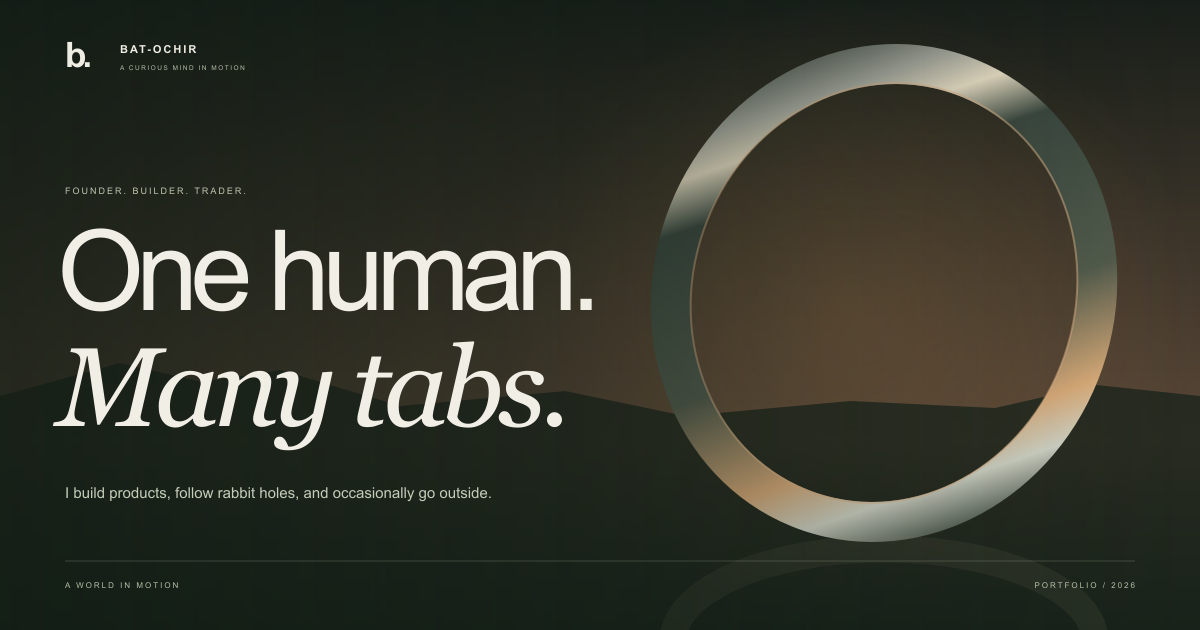
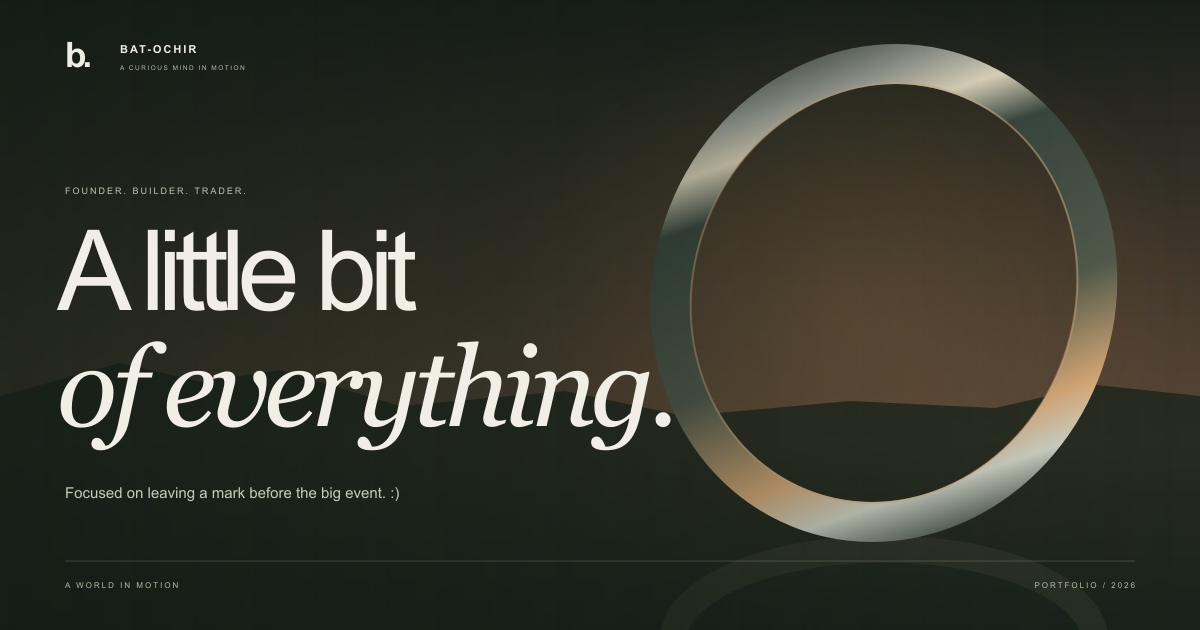
feat: hero change, animatided scroll down, lets keep in touch.

Changed region(s): [[0.0308, 0.5429, 0.555, 0.7238], [0.0308, 0.3619, 0.4933, 0.5127], [0.0617, 0.754, 0.4008, 0.8143]]

diff --git a/index.html b/index.html
@@ -4,20 +4,20 @@
   <meta charset="UTF-8">
   <meta name="viewport" content="width=device-width, initial-scale=1">
   <meta name="theme-color" content="#151713">
-  <meta name="description" content="I'm Bat-Ochir. Founder of RoamRep, software builder, options trader, and a curious mind in motion. Step into my world.">
+  <meta name="description" content="Bat-Ochir. Founder of RoamRep, builder, and options trader. A little bit of everything, focused on leaving a mark.">
   <title>Bat-Ochir — A world in motion</title>
   <link rel="canonical" href="https://bat-portfolio.vercel.app/">
   <meta property="og:type" content="website">
   <meta property="og:site_name" content="Bat-Ochir">
   <meta property="og:title" content="Bat-Ochir — A world in motion">
-  <meta property="og:description" content="Founder. Builder. Trader. Always exploring what comes next.">
+  <meta property="og:description" content="A little bit of everything. Focused on leaving a mark before the big event.">
   <meta property="og:url" content="https://bat-portfolio.vercel.app/">
   <meta property="og:image" content="https://bat-portfolio.vercel.app/assets/share-card.png">
   <meta property="og:image:width" content="1200"><meta property="og:image:height" content="630">
   <meta property="og:image:alt" content="Bat-Ochir. A world in motion. Founder, builder, trader.">
   <meta name="twitter:card" content="summary_large_image">
   <meta name="twitter:title" content="Bat-Ochir — A world in motion">
-  <meta name="twitter:description" content="Founder. Builder. Trader. Always exploring what comes next.">
+  <meta name="twitter:description" content="A little bit of everything. Focused on leaving a mark before the big event.">
   <meta name="twitter:image" content="https://bat-portfolio.vercel.app/assets/share-card.png">
   <link rel="icon" href="assets/favicon.svg" type="image/svg+xml">
   <link rel="preconnect" href="https://fonts.googleapis.com">
@@ -48,12 +48,12 @@
     <section class="hero section" id="home" data-chapter="00" data-name="The entrance" data-world="0">
       <div class="hero-copy">
         <p class="eyebrow hero-enter">BAT-OCHIR · FOUNDER, BUILDER & TRADER</p>
-        <h1 class="hero-title"><span class="hero-line"><span>One human.</span></span><span class="hero-line"><span><em>Many tabs.</em></span></span></h1>
-        <p class="hero-description hero-enter">I build products, follow rabbit holes,<br>and occasionally go outside.</p>
-        <a class="text-link hero-enter" href="#roamrep">Step into my world <span aria-hidden="true">↘</span></a>
+        <h1 class="hero-title hero-title--personal"><span class="hero-line"><span>A little bit</span></span> <span class="hero-line"><span><em>of everything.</em></span></span></h1>
+        <p class="hero-description hero-enter">Focused on leaving a mark<br>before the big event. <span class="hero-smile">:)</span></p>
+        <a class="scroll-down hero-enter" href="#roamrep"><span class="scroll-disc" aria-hidden="true"><span class="scroll-arrows"><span>↓</span><span>↓</span></span></span><span>Scroll down</span></a>
       </div>
       <div class="hero-orbit-label" aria-hidden="true"><span class="orbit-cross">+</span><span>INDEPENDENT MIND.<br>OPEN HORIZONS.</span></div>
-      <div class="hero-bottom"><a href="#roamrep" class="scroll-cue"><span class="scroll-line" aria-hidden="true"></span><span>SCROLL TO EXPLORE</span></a><p>A world in motion.<span>Selected work & ongoing curiosities</span></p><span class="edition">PORTFOLIO / 2026</span></div>
+      <div class="hero-bottom"><p>A world in motion.<span>Selected work & ongoing curiosities</span></p><span class="edition">PORTFOLIO / 2026</span></div>
     </section>
 
     <section class="project section roam-section" id="roamrep" data-chapter="01" data-name="The venture" data-world="0.19" aria-labelledby="roam-title">
@@ -123,7 +123,7 @@
     <section class="about section" id="about" data-chapter="06" data-name="The human" data-world="0.94" aria-labelledby="about-title">
       <div class="about-top reveal"><p class="eyebrow"><span class="chapter-no">06 /</span> THE HUMAN BEHIND THE WORLDS</p><span class="human-spark" aria-hidden="true">✳</span></div>
       <h2 class="about-title reveal" id="about-title">Hi, I’m <span class="unbroken">Bat-Ochir.</span><br>Call me <em>Bat.</em></h2>
-      <div class="about-body"><p class="about-statement reveal">I tend to test the ideas that stick in my head. Sometimes they become products. Sometimes businesses. Sometimes a very good lesson.</p><div class="about-personal reveal"><p>Outside the screen: chess, basketball, volleyball, and hip hop choreography. A competitive streak. Four languages. Always something new to learn.</p><a class="text-link" href="mailto:batcontact.help@gmail.com?subject=R%C3%A9sum%C3%A9%20request" data-open-contact data-contact-reason="resume">The résumé, on request <span aria-hidden="true">↗</span></a></div></div>
+      <div class="about-body"><p class="about-statement reveal">I do stuff. Hopefully I’ll live in Southeast Asia one day.</p><div class="about-personal reveal"><p>Outside the screen: chess, basketball, volleyball, and hip hop choreography. A competitive streak. Four languages. Always something new to learn.</p><a class="text-link" href="mailto:batcontact.help@gmail.com?subject=R%C3%A9sum%C3%A9%20request" data-open-contact data-contact-reason="resume">The résumé, on request <span aria-hidden="true">↗</span></a></div></div>
       <div class="achievements">
         <article class="achievement reveal"><span class="achievement-label">THE FOUNDATION</span><h3>Summa<br><em>cum laude.</em></h3><p>Graduated with highest honors.</p></article>
         <article class="achievement reveal"><span class="achievement-label">THE APP CONTEST</span><h3>2nd <em>place.</em></h3><p>DiceDecide · UNM / CNM<br>University app contest · 2023</p><a href="https://appcontest.unm.edu/spring-2023-contest/fall-2023-contest-winners.html" target="_blank" rel="noopener noreferrer">View the award ↗</a><a href="https://github.com/Enerep/App-Contest" target="_blank" rel="noopener noreferrer">Explore DiceDecide ↗</a></article>
@@ -136,7 +136,12 @@
         <a class="learning-link reveal" href="https://github.com/Enerep" target="_blank" rel="noopener noreferrer"><span class="learning-index">03</span><span class="learning-title">The rest of <em>the experiments.</em></span><span class="learning-arrow" aria-hidden="true">↗</span></a>
       </nav>
     </section>
-    <footer class="contact section" id="contact" data-world="1" aria-labelledby="contact-heading"><div class="contact-intro reveal"><p class="eyebrow">THE NEXT WORLD STARTS WITH A CONVERSATION.</p><h2 id="contact-heading">What’s on<br><em>your horizon?</em></h2><a class="contact-cta" href="mailto:batcontact.help@gmail.com" data-open-contact>Let’s make something happen. <span aria-hidden="true">↗</span></a></div><div class="footer-bottom"><a class="footer-name" href="#home">Bat-Ochir <span>© 2026</span></a><div class="social-links"><a href="https://github.com/Enerep" target="_blank" rel="noopener noreferrer">GitHub ↗</a><a href="https://www.linkedin.com/in/bat-art/" target="_blank" rel="noopener noreferrer">LinkedIn ↗</a><a href="mailto:batcontact.help@gmail.com" data-open-contact>Email ↗</a></div><a class="back-top" href="#home">Back to the surface ↑</a></div></footer>
+    <footer class="contact section" id="contact" data-world="1" aria-labelledby="contact-heading"><div class="contact-intro reveal">
+        <p class="eyebrow">GOOD CONVERSATIONS START SOMEWHERE.</p>
+        <a class="ring-phone" href="mailto:batcontact.help@gmail.com" data-open-contact aria-label="Open contact details"><span class="phone-wave" aria-hidden="true"></span><span class="phone-wave phone-wave--echo" aria-hidden="true"></span><svg class="phone-handset" viewBox="0 0 30 30" fill="none" aria-hidden="true"><path d="m9 5-3 1c-1 .4-1.5 1.4-1.3 2.5 1.6 8 7.8 14.2 15.8 15.8 1.1.2 2.1-.3 2.5-1.3l1-3c.2-.8-.1-1.7-.9-2.1l-3.5-1.8c-.7-.4-1.5-.2-2 .3l-1.5 1.5a15 15 0 0 1-6.5-6.5l1.5-1.5c.5-.5.7-1.3.3-2L10 5.9C9.7 5.2 9.5 4.8 9 5Z" stroke="currentColor" stroke-width="1.5" stroke-linecap="round" stroke-linejoin="round"/></svg></a>
+        <h2 id="contact-heading">Let’s keep<br><em>in touch.</em></h2>
+        <a class="contact-cta" href="mailto:batcontact.help@gmail.com" data-open-contact>Say hello <span aria-hidden="true">↗</span></a>
+      </div><div class="footer-bottom"><a class="footer-name" href="#home">Bat-Ochir <span>© 2026</span></a><div class="social-links"><a href="https://github.com/Enerep" target="_blank" rel="noopener noreferrer">GitHub ↗</a><a href="https://www.linkedin.com/in/bat-art/" target="_blank" rel="noopener noreferrer">LinkedIn ↗</a><a href="mailto:batcontact.help@gmail.com" data-open-contact>Email ↗</a></div><a class="back-top" href="#home">Back to the surface ↑</a></div></footer>
   </main>
   <div class="world-controls"><span class="chapter-readout" aria-hidden="true"><span id="current-chapter">00</span><span class="readout-line"></span><span id="current-chapter-name">The entrance</span></span><button class="motion-toggle" id="motion-toggle" type="button" aria-pressed="false" aria-label="Pause animation"><span class="motion-icon" aria-hidden="true">Ⅱ</span><span class="motion-label">Motion on</span></button></div>
   <dialog class="index-dialog" id="index-dialog" aria-labelledby="index-title"><div class="dialog-heading"><p class="eyebrow" id="index-title">CHOOSE YOUR WORLD</p><button class="close-button" type="button" data-close-dialog="index-dialog" aria-label="Close project index">×</button></div><nav class="index-list" aria-label="All chapters"><a href="#roamrep"><span>01</span>RoamRep<em>Founder ↗</em></a><a href="#worldlayer"><span>02</span>worldlayer.si<em>Owner ↗</em></a><a href="#discovery"><span>03</span>Discovery Galaxy<em>Research ↗</em></a><a href="#proofpatch"><span>04</span>ProofPatch<em>Developer tool ↗</em></a><a href="#pursuits"><span>05</span>Other orbits<em>Markets & growth ↗</em></a><a href="#about"><span>06</span>The human<em>A little about me ↗</em></a></nav><a class="index-contact" href="#contact">Have something in mind? Let’s talk ↗</a></dialog>

diff --git a/style.css b/style.css
@@ -53,3 +53,28 @@ html{scroll-padding-top:110px}
 @media(max-width:700px){.learning-links{margin-top:60px}.learning-links>.eyebrow{font-size:8px;margin-bottom:22px}.learning-link{grid-template-columns:18px 1fr 36px;gap:11px;padding:25px 0;min-height:110px}.learning-index{font-size:7px;padding-top:8px}.learning-title{font-size:clamp(25px,5.8vw,38px);line-height:1.25}.learning-count{font-size:58px;margin-right:8px;display:block;margin-bottom:9px}.learning-arrow{width:36px;height:36px;font-size:20px}.market-favorite strong{font-size:56px}.market-favorite>span{font-size:6px;max-width:63px}.market-favorite{margin-bottom:20px}}
 @media(max-width:360px){.learning-title{font-size:25px}.learning-link{grid-template-columns:14px 1fr 32px;gap:9px}.learning-arrow{width:32px;height:32px;font-size:19px}}
 .proof-art{overflow:clip}
+
+/* A personal hello, an obvious next step, and a gently ringing invitation. */
+.hero-title.hero-title--personal{font-size:clamp(72px,9.1vw,154px)}
+.hero-smile{color:var(--lime);white-space:nowrap}
+.scroll-down{display:inline-flex;align-items:center;gap:16px;min-height:52px;margin-top:27px;font-size:11px;letter-spacing:.04em;color:#d8decd}
+.scroll-disc{display:block;position:relative;width:48px;height:48px;border:1px solid #c5d0b65c;border-radius:50%;overflow:hidden;transition:background .3s,border-color .3s}
+.scroll-arrows{position:absolute;inset:0 0 auto;display:flex;flex-direction:column;transform:translateY(-48px);animation:scroll-downward 2.8s var(--ease) infinite}
+.scroll-arrows>span{display:flex;align-items:center;justify-content:center;flex:0 0 48px;font-size:24px;line-height:1}
+.scroll-down:hover .scroll-disc{background:#d7ef8012;border-color:var(--lime)}
+.hero-bottom>p{margin-left:0}
+.ring-phone{position:relative;isolation:isolate;display:flex;align-items:center;justify-content:center;width:78px;height:78px;margin:46px auto 0;border:1px solid #c5d9a95c;border-radius:50%;color:var(--lime);background:#c5e19a0b;transition:background .35s,color .35s}
+.ring-phone:hover{background:var(--lime);color:#192116}
+.phone-handset{display:block;width:31px;height:31px;transform-origin:50% 65%;animation:phone-ring 5s ease-in-out infinite}
+.phone-wave{position:absolute;z-index:-1;inset:-1px;border:1px solid #c5d9a959;border-radius:50%;pointer-events:none;opacity:0;animation:phone-echo 5s ease-out infinite}
+.phone-wave--echo{animation-delay:.3s}
+.contact .ring-phone+h2{margin-top:35px}
+@keyframes scroll-downward{0%,15%{transform:translateY(-48px)}65%,100%{transform:translateY(0)}}
+@keyframes phone-ring{0%,25%,100%{transform:rotate(0)}3%,11%,19%{transform:rotate(-15deg)}7%,15%,23%{transform:rotate(15deg)}}
+@keyframes phone-echo{0%{transform:scale(.98);opacity:0}5%{opacity:.5}40%,100%{transform:scale(1.8);opacity:0}}
+@media(max-width:700px){.hero-title.hero-title--personal{font-size:clamp(50px,12.8vw,90px)}.scroll-down{font-size:10px;margin-top:24px;gap:13px}.hero-bottom>p{text-align:left}.ring-phone{width:68px;height:68px;margin-top:38px}.phone-handset{width:29px;height:29px}.contact .ring-phone+h2{margin-top:30px}}
+@media(prefers-reduced-motion:reduce){.phone-wave{display:none}.scroll-arrows{transform:translateY(-48px)}}
+/* Keep the hero caption clear of the fixed controls on short screens. */
+.hero-bottom{bottom:max(68px,calc(828px - 100svh))}
+@media(max-width:700px){.hero-bottom{bottom:max(78px,calc(828px - 100svh))}}
+@media(max-width:360px){.hero-bottom{bottom:max(78px,calc(778px - 100svh))}}
